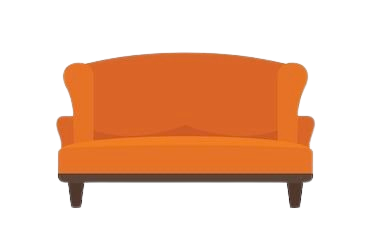
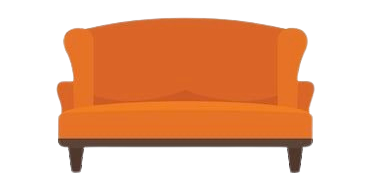
Atualização 02/09 12:21

diff --git a/src/app/app.module.ts b/src/app/app.module.ts
@@ -9,6 +9,8 @@ import { HeaderComponent } from './Components/header/header.component';
 import { WelcomeComponent } from './Components/welcome/welcome.component';
 import { DescriptionComponent } from './Components/description/description.component';
 import { PrestadorComponent } from './Components/prestador/prestador.component';
+import { ClienteComponent } from './Components/cliente/cliente.component';
+import { AplicativoComponent } from './Components/aplicativo/aplicativo.component';
 
 @NgModule({
   declarations: [
@@ -17,7 +19,9 @@ import { PrestadorComponent } from './Components/prestador/prestador.component';
     HeaderComponent,
     WelcomeComponent,
     DescriptionComponent,
-    PrestadorComponent
+    PrestadorComponent,
+    ClienteComponent,
+    AplicativoComponent
   ],
   imports: [
     BrowserModule,

diff --git a/src/app/Components/prestador/prestador.component.css b/src/app/Components/prestador/prestador.component.css
@@ -18,12 +18,15 @@ h1{
   margin-bottom: auto;
 }
 .contato1{
-  margin-left: 10vw;
+  margin-left: 7vw;
   margin-right: 10vw;
   display: flex;
 }
 .ct-img{
-  width: 25vw;
+  width: 22vw;
+  margin-right: 3vw;
+
+
 }
 
 .celular1{
@@ -33,7 +36,8 @@ h1{
   margin-top: -10px;
 }
 .ce-img{
-  width: 23vw;
+  margin-right: 6.2vw;
+  width: 17vw;
 }
 
 .raio1{
@@ -43,18 +47,21 @@ h1{
 }
 
 .ra-img{
-  width: 19.5vw;
+  width: 19vw;
+  margin-right: 5.2vw;
+
 }
 
 .sino1{
-  margin-left: 8vw;
+  margin-left: 4.7vw;
   margin-right: 9vw;
   display: flex;
   margin-bottom: 10vw;
 }
 
 .si-img{
-  width: 20vw;
+  width: 24vw;
+  margin-right: 4vw;
 }
 
 h2{
@@ -65,6 +72,6 @@ h2{
 }
 p{
   color:white;
-  font-size: 4.3vw;
+  font-size: 4.5vw;
 }
 

diff --git a/src/app/Components/aplicativo/aplicativo.component.spec.ts b/src/app/Components/aplicativo/aplicativo.component.spec.ts
@@ -1,0 +1,21 @@
+import { ComponentFixture, TestBed } from '@angular/core/testing';
+
+import { AplicativoComponent } from './aplicativo.component';
+
+describe('AplicativoComponent', () => {
+  let component: AplicativoComponent;
+  let fixture: ComponentFixture<AplicativoComponent>;
+
+  beforeEach(() => {
+    TestBed.configureTestingModule({
+      declarations: [AplicativoComponent]
+    });
+    fixture = TestBed.createComponent(AplicativoComponent);
+    component = fixture.componentInstance;
+    fixture.detectChanges();
+  });
+
+  it('should create', () => {
+    expect(component).toBeTruthy();
+  });
+});

diff --git a/src/app/Components/cliente/cliente.component.css b/src/app/Components/cliente/cliente.component.css
@@ -1,0 +1,41 @@
+#Cliente1{
+  height: 120vw;
+  display: flex;
+  justify-content: space-between;
+}
+.title1{
+  width: 75vw;
+  margin-left: 12.4vw;
+  text-align: center;
+}
+h1{
+  color: #444241;
+  font-size: 8vw;
+  line-height: 9vw;
+  font-weight:500;
+  margin-top: 7vw;
+  margin-bottom: auto;
+}
+.sofa1{
+  margin-top: 5vw;
+  margin-left: 4.7vw;
+}
+.sofa1, img{
+  width: 90vw;
+}
+span{
+  color:  #FE914E;
+}
+.text1{
+  width: 88vw;
+  text-align: center;
+  margin-left: 5.6vw;
+  margin-top: 7vw;
+}
+.text1,p{
+  color: #5e5d5d ;
+  font-size: 5vw;
+  line-height: 6vw;
+  font-weight:500;
+
+}

diff --git a/src/app/Components/cliente/cliente.component.spec.ts b/src/app/Components/cliente/cliente.component.spec.ts
@@ -1,0 +1,21 @@
+import { ComponentFixture, TestBed } from '@angular/core/testing';
+
+import { ClienteComponent } from './cliente.component';
+
+describe('ClienteComponent', () => {
+  let component: ClienteComponent;
+  let fixture: ComponentFixture<ClienteComponent>;
+
+  beforeEach(() => {
+    TestBed.configureTestingModule({
+      declarations: [ClienteComponent]
+    });
+    fixture = TestBed.createComponent(ClienteComponent);
+    component = fixture.componentInstance;
+    fixture.detectChanges();
+  });
+
+  it('should create', () => {
+    expect(component).toBeTruthy();
+  });
+});

diff --git a/src/app/Components/cliente/cliente.component.html b/src/app/Components/cliente/cliente.component.html
@@ -1,0 +1,14 @@
+<header class="d-flex d-sm-none" id="Cliente1">
+  <div class="org">
+    <div class="title1">
+      <h1>Veja como funciona para <span>clientes</span>:</h1>
+    </div>
+    <div class="sofa1">
+      <img src="/assets/Cliente/sofa.png">
+    </div>
+    <div class="text1">
+      <p>Como cliente, você terá mais facilidade em encontrar
+        prestadores de serviços que vão até a sua casa, do <span>conforto do seu sofá</span>.</p>
+    </div>
+  </div>
+</header>

diff --git a/src/app/Components/aplicativo/aplicativo.component.ts b/src/app/Components/aplicativo/aplicativo.component.ts
@@ -1,0 +1,10 @@
+import { Component } from '@angular/core';
+
+@Component({
+  selector: 'app-aplicativo',
+  templateUrl: './aplicativo.component.html',
+  styleUrls: ['./aplicativo.component.css']
+})
+export class AplicativoComponent {
+
+}

diff --git a/src/app/Components/cliente/cliente.component.ts b/src/app/Components/cliente/cliente.component.ts
@@ -1,0 +1,10 @@
+import { Component } from '@angular/core';
+
+@Component({
+  selector: 'app-cliente',
+  templateUrl: './cliente.component.html',
+  styleUrls: ['./cliente.component.css']
+})
+export class ClienteComponent {
+
+}

diff --git a/src/app/Pages/empresa/empresa.component.html b/src/app/Pages/empresa/empresa.component.html
@@ -2,3 +2,5 @@
 <app-welcome></app-welcome>
 <app-description></app-description>
 <app-prestador></app-prestador>
+<app-cliente></app-cliente>
+<app-aplicativo></app-aplicativo>

diff --git a/src/app/Components/aplicativo/aplicativo.component.html b/src/app/Components/aplicativo/aplicativo.component.html
@@ -1,0 +1,1 @@
+<p>aplicativo works!</p>
